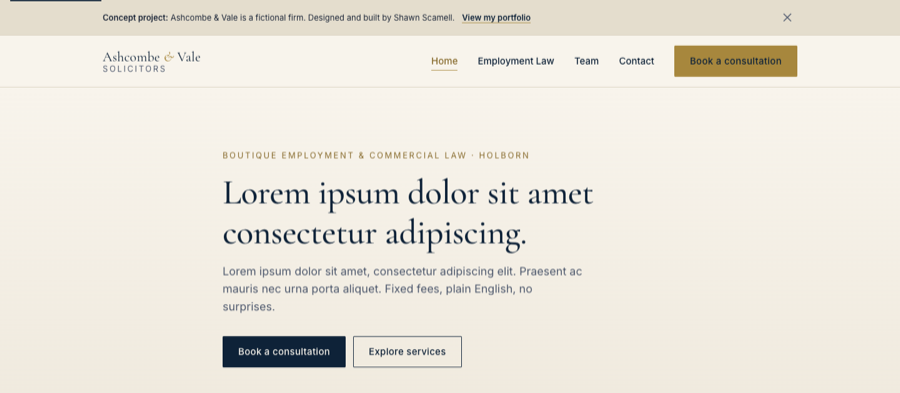
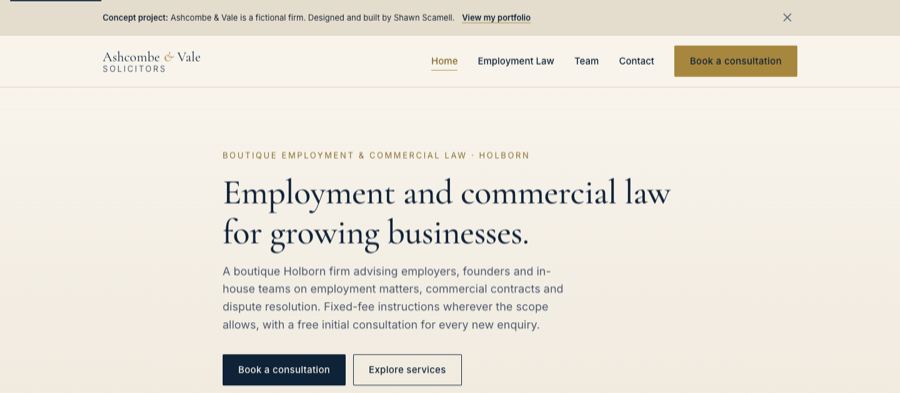
Added new project and updated screenshots

Changed region(s): [[0.2489, 0.6718, 0.6533, 1.0], [0.2489, 0.458, 0.7467, 0.5496], [0.2489, 0.5496, 0.5911, 0.6412]]

diff --git a/index.html b/index.html
@@ -6,7 +6,7 @@
 
     <!-- Primary SEO -->
     <title>Shawn Scamell — Software Developer</title>
-    <meta name="description" content="Shawn Scamell is a software developer who builds clean, modern web applications. View projects, skills, and get in touch.">
+    <meta name="description" content="Software developer near London. I build websites and web apps for clients and as personal projects.">
     <meta name="robots" content="index, follow">
     <link rel="canonical" href="https://shawnscamell.com/">
 
@@ -14,12 +14,12 @@
     <meta property="og:type" content="website">
     <meta property="og:url" content="https://shawnscamell.com/">
     <meta property="og:title" content="Shawn Scamell — Software Developer">
-    <meta property="og:description" content="Shawn Scamell is a software developer who builds clean, modern web applications. View projects, skills, and get in touch.">
+    <meta property="og:description" content="Software developer near London. I build websites and web apps for clients and as personal projects.">
 
     <!-- Twitter / X card -->
     <meta name="twitter:card" content="summary">
     <meta name="twitter:title" content="Shawn Scamell — Software Developer">
-    <meta name="twitter:description" content="Shawn Scamell is a software developer who builds clean, modern web applications.">
+    <meta name="twitter:description" content="Software developer near London. I build websites and web apps for clients and as personal projects.">
 
     <!-- Structured data — tells Google this is a person's portfolio -->
     <script type="application/ld+json">
@@ -73,7 +73,7 @@
                 <p class="hero-greeting">Hi, I'm</p>
                 <h1 class="hero-name">Shawn Scamell</h1>
                 <h2 class="hero-title">Software Developer</h2>
-                <p class="hero-bio">I build clean, modern software. Focused on creating applications and sites that are both functional and lovable.</p>
+                <p class="hero-bio">I build software that people enjoy using. Web apps, client sites and the occasional side project.</p>
                 <div class="hero-actions">
                     <a href="#projects" class="btn btn-primary">View My Work</a>
                     <a href="#contact" class="btn btn-secondary">Get In Touch</a>
@@ -86,7 +86,7 @@
                 <h2 class="section-title">About</h2>
                 <div class="about-grid">
                     <div class="about-text">
-                        <p>I'm a software developer passionate about building things that matter. I love diving into hard problems and am always looking to learn something new.</p>
+                        <p>I'm a developer based near London. I like building things for the web and tend to get absorbed in whatever I'm learning at the time.</p>
                         <!-- <p>When I'm not writing code, I'm probably learning languages — including German!</p> -->
                     </div>
                     <div class="about-image">
@@ -109,7 +109,7 @@
                         </a>
                         <div class="project-body">
                             <h3 class="project-title">Custom Shopify Theme</h3>
-                            <p class="project-desc">Built a fully custom Shopify theme from the ground up for a client — no template, no page builder. Covers the full storefront including product pages, collections, cart, and checkout flow.</p>
+                            <p class="project-desc">Fully custom Shopify theme for a client. No template, no page builder. Covers the whole storefront: product pages, collections, cart, and checkout.</p>
                             <ul class="project-tags">
                                 <li>Shopify Liquid</li>
                                 <li>JavaScript</li>
@@ -132,15 +132,37 @@
                         </a>
                         <div class="project-body">
                             <h3 class="project-title">Ashcombe & Vale Solicitors</h3>
-                            <p class="project-desc">Concept site for a fictional boutique law firm. Clean, professional design with a full contact form, team profiles, practice area pages, and a blog-style insights section.</p>
+                            <p class="project-desc">Concept site for a fictional Holborn law firm. Four pages covering practice areas, team profiles, and contact, plus a pop-up articles section.</p>
                             <ul class="project-tags">
                                 <li>JavaScript</li>
                                 <li>HTML / CSS</li>
                             </ul>
                         </div>
                         <div class="project-footer">
+                            <span class="project-private">🔒 Private repo</span>
                             <div class="project-actions">
                                 <a href="https://deft-ganache-8b6b45.netlify.app/" target="_blank" rel="noopener" class="project-action-btn">View Live ↗</a>
+                            </div>
+                        </div>
+                    </article>
+
+                    <article class="project-card">
+                        <a class="project-preview" href="https://portfolio-coffee-shop.netlify.app/" target="_blank" rel="noopener" aria-label="View live site">
+                            <img src="src/img/ember-grain-preview.png" alt="Ember & Grain coffee shop concept site preview" class="project-img" loading="lazy">
+                            <span class="project-preview-overlay">View Site ↗</span>
+                        </a>
+                        <div class="project-body">
+                            <h3 class="project-title">Ember & Grain</h3>
+                            <p class="project-desc">Concept site for a fictional coffee shop in Hackney. Tabbed menu, shop page, newsletter signup, and a bag counter that updates as you browse.</p>
+                            <ul class="project-tags">
+                                <li>JavaScript</li>
+                                <li>HTML / CSS</li>
+                            </ul>
+                        </div>
+                        <div class="project-footer">
+                            <span class="project-private">🔒 Private repo</span>
+                            <div class="project-actions">
+                                <a href="https://portfolio-coffee-shop.netlify.app/" target="_blank" rel="noopener" class="project-action-btn">View Live ↗</a>
                             </div>
                         </div>
                     </article>
@@ -152,7 +174,7 @@
                         </a>
                         <div class="project-body">
                             <h3 class="project-title">This Portfolio</h3>
-                            <p class="project-desc">Personal portfolio site with light, dark, and auto OS theme modes, a Web3Forms contact form, mobile-responsive layout, and SEO structured data.</p>
+                            <p class="project-desc">This site. Light, dark, and system-matched themes. Working contact form. No frameworks.</p>
                             <ul class="project-tags">
                                 <li>JavaScript</li>
                                 <li>HTML / CSS</li>
@@ -230,7 +252,7 @@
         <section id="contact" class="section section-alt">
             <div class="section-container">
                 <h2 class="section-title">Get In Touch</h2>
-                <p class="contact-intro">Have a project in mind or want to collaborate? Send a message or reach out directly.</p>
+                <p class="contact-intro">Got a project in mind? Drop me a message or reach out directly.</p>
 
                 <div class="contact-grid">
 

diff --git a/src/style.css b/src/style.css
@@ -213,7 +213,7 @@ a:hover {
 }
 
 .hero-bio {
-    max-width: 540px;
+    max-width: 420px;
     margin-top: 1.5rem;
     color: var(--color-text-muted);
     font-size: 1.05rem;
